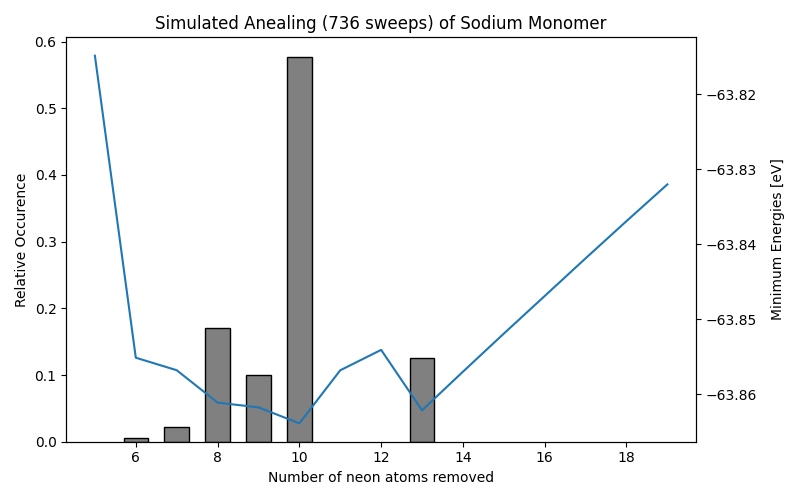
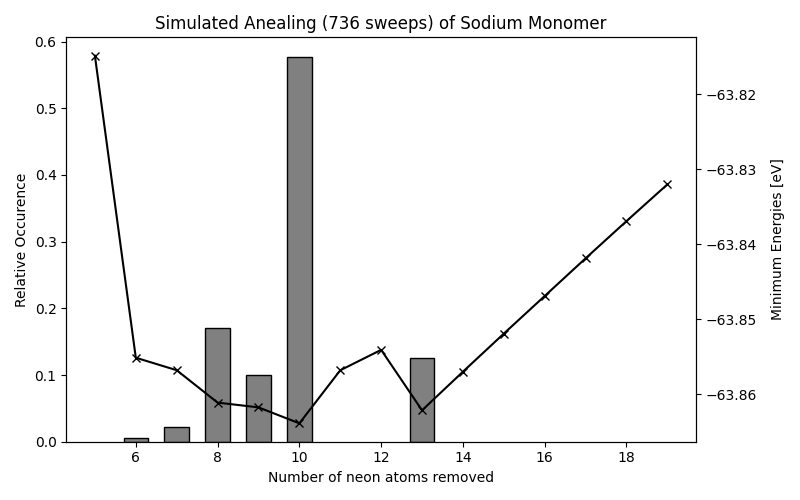
upgrade figure

diff --git a/Python/plot.py b/Python/plot.py
@@ -39,7 +39,7 @@ ax1.set_title(f'Simulated Anealing ({len(data)} sweeps) of Sodium Monomer')
 
 ax2 = ax1.twinx()
 ax2.set_ylabel('Minimum Energies [eV]', color = "black", labelpad=10)
-ax2.plot(range(5,len(bruteforcedata)+5), bruteforcedata)
+ax2.plot(range(5,len(bruteforcedata)+5), bruteforcedata, color = "black", marker="x" )
 
 fig.tight_layout()
 plt.savefig("../Inhalt/Bilder/optimal_defect_simulated_annealing.png")
